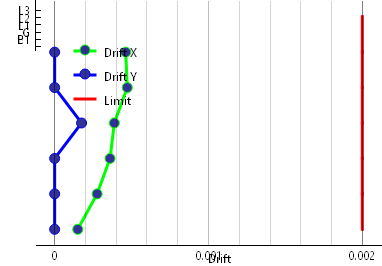
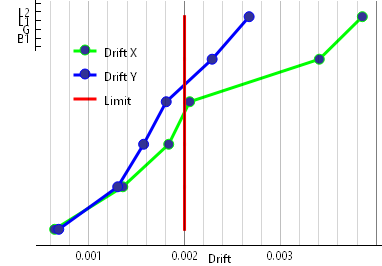
The drift limit in graph was modified to depend on the number of floors in the building

Changed region(s): [[0.0288, 0.0, 1.0, 0.9925], [0.6911, 0.9323, 0.7775, 0.9925], [0.2016, 0.9323, 0.2592, 0.9925]]

diff --git a/Drift/Controller.py b/Drift/Controller.py
@@ -34,7 +34,7 @@ class ETABSDrift:
         self.window.load_label.setText(f'Load: {self.selected_load}')
         # query desiered columns
         load_drift = story_drifts_table[story_drifts_table.OutputCase == self.selected_load]
-        print(f'load drift is {load_drift}')
+
         if selected_table == 'Story Drifts':
             load_table = load_drift[['Story', 'Direction', 'Drift']]
             kvalue = "Drift"
@@ -106,7 +106,7 @@ class ETABSDrift:
         # transpose table
         datax = pd.DataFrame(np.array([valuelistx, dict_lstring], dtype=float)).T.to_numpy()
         datay = pd.DataFrame(np.array([valuelisty, dict_lstring], dtype=float)).T.to_numpy()
-        datalimit = np.array([[0.002, 0], [0.002, 1], [0.002, 2], [0.002, 3], [0.002, 4], [0.002, 5], [0.002, 6]])
+        datalimit = np.array([[0.002, x] for x in range(self.row_no)])
 
         penx = pg.mkPen({'color': "g", 'width': 3})
         peny = pg.mkPen({'color': "b", 'width': 3})
